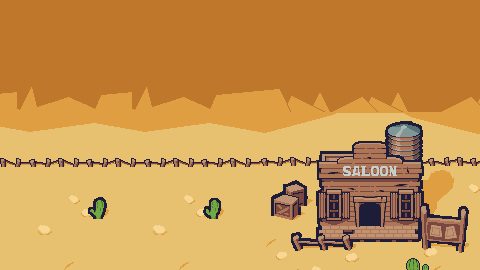
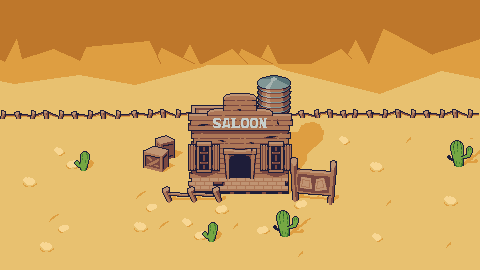
레터박스를 우클릭 연출로, 인게임은 꽉 찬 화면, 시작 화면은 선 얇은 원래 그림 (사용자 10-13)
- Letterbox.cs: 우클릭을 누르는 동안 위아래 남색 띠(최대 45칸, 도트 단위)가 용수철로 들어오고 HUD가 18%로 흐려짐. 떼면 돌아감. 띠는 배경 위·깡통 아래
- bg_range 480x270: 가운데 480x180 + 위는 벽을 옆으로 밀어 복사, 아래는 벽돌 줄(8줄 주기) 반복. 월드 좌표는 그대로
- 시작 화면: bg_saloon을 처음 받은 480x270 그림으로 되돌리고 띠·문·아지랑이·빛줄기·로고 자리도 원래대로

diff --git a/Assets/Scripts/Title.cs b/Assets/Scripts/Title.cs
@@ -15,14 +15,14 @@ namespace TinCan
     {
         const float Ppu = 27f;   // 480×270
         // 띠 경계 (원본 아래쪽부터 센 픽셀 행). 겹침 8줄: 세로 시차로 틈이 안 보이게
-        static readonly int[] cutLo = { 150, 0, 0 }, cutHi = { 270, 158, 12 };   // 뒤(하늘·산, 물탱크 위), 가운데(모래·울타리·술집), 앞(맨 아래 모래 12줄). 480×270 그림 (10-13 최종: 술집 오른쪽 아래)
+        static readonly int[] cutLo = { 196, 56, 0 }, cutHi = { 270, 204, 64 };   // 뒤, 가운데, 앞 (원래 480×270 술집 그림, 선 얇은 판 — 사용자 10-13 되돌림)
         static readonly float[] ampX = { 1f, 2f, 4f }, ampY = { 0f, 1f, 2f };     // 시차: 분석대로 절반 (마우스 끝까지 갔을 때 도트 수)
-        static readonly float[] shiftX = { 0f, 0f, 0f };                          // 320×180 그림은 술집이 이미 오른쪽에 있어 밀지 않는다
+        static readonly float[] shiftX = { 40f, 100f, 100f };                     // 술집을 오른쪽으로 — 왼쪽을 메뉴 자리로 비운다 (도트)
         readonly Transform[] layer = new Transform[3];
         readonly Vector2[] basePos = new Vector2[3];
         Vector2 look, lookV;
         Transform doorL, doorR;
-        static readonly Vector3 doorArt = new Vector3(130f / Ppu, -78f / Ppu, 0f);    // 입구 여닫이문 자리: 그림 가운데(240,135)에서 오른쪽 130, 아래 78 (문 가운데 = 그림 (370, 213))
+        static readonly Vector3 doorArt = new Vector3(0f, (135f - 165f) / Ppu, 0f);   // 입구 여닫이문 자리 (그림 x 229~251, 위에서 158~172행)
         bool frozen;
 
         // ---------- 메뉴: 글자 + ◀ (상자 없음) ----------
@@ -79,10 +79,10 @@ namespace TinCan
                 {
                     var m = new Material(hazeShader);
                     m.SetVector("_TexSize", new Vector4(tex.width, tex.height, 0f, 0f));
-                    m.SetVector("_Band", new Vector4(150f / tex.height, 180f / tex.height, 0f, 0f));   // 산 밑동 지평선 띠 (물탱크 위)
+                    m.SetVector("_Band", new Vector4(204f / tex.height, 236f / tex.height, 0f, 0f));   // 산 밑동 지평선 띠
                     m.SetFloat("_Amp", i == 2 ? 0f : 1.2f); m.SetFloat("_Rate", 6f);
                     m.SetFloat("_Desat", 0.6f);
-                    m.SetVector("_DesatBand", new Vector4(110f / tex.height, 210f / tex.height, 0f, 0f));   // 울타리 위부터 하늘 쪽으로 점점 회색
+                    m.SetVector("_DesatBand", new Vector4(150f / tex.height, 240f / tex.height, 0f, 0f));   // 울타리 위부터 하늘 쪽으로 점점 회색
                     m.SetColor("_Tint", new Color(0.84f, 0.9f, 0.97f));
                     sr.material = m;
                 }
@@ -390,10 +390,10 @@ namespace TinCan
         // 술집 = 그림 x 275~405도트(오른쪽 100 밀린 뒤), 아래에서 60~200행.
         // 위 끝 x(rayCx)는 사선(22°)을 거꾸로 따라 올라간 자리: 120행에서 각각 지붕 왼쪽·간판·물탱크 쪽에 닿는다
         // 줄기마다 기준점(rayHit: RayPivot행에서 닿는 x)을 축으로 각도가 다르다. 각도 = 22° + rayTilt ± 천천히 흔들림
-        static readonly float[] rayHit = { 330f, 375f, 430f }, rayTilt = { -6f, 1f, 6f }, rayWd = { 12f, 7f, 16f }, rayA = { 0.14f, 0.1f, 0.16f };   // 위 끝 폭. 술집 높이(120행)에선 약 2배
-        const float RayFoot = 0f, RayFull = 122f;   // 이 행(아래에서) 밑으로는 사라지고, RayFull 위로는 최대 밝기 — 술집 발밑까지만 내리쬔다
+        static readonly float[] rayHit = { 300f, 345f, 400f }, rayTilt = { -6f, 1f, 6f }, rayWd = { 12f, 7f, 16f }, rayA = { 0.14f, 0.1f, 0.16f };   // 위 끝 폭. 술집 높이(120행)에선 약 2배
+        const float RayFoot = 50f, RayFull = 170f;   // 이 행(아래에서) 밑으로는 사라지고, RayFull 위로는 최대 밝기 — 술집 발밑까지만 내리쬔다
         const float RayAngle = 22f, RaySway = 2.5f;  // 기준 각도, 시간에 따라 각 줄기가 ±이만큼 천천히 흔들림
-        const float RayPivot = 72f;                  // 이 행(술집 간판 높이)을 축으로 돌아서, 각도가 바뀌어도 술집은 계속 비춘다
+        const float RayPivot = 120f;                 // 이 행(술집 간판 높이)을 축으로 돌아서, 각도가 바뀌어도 술집은 계속 비춘다
         const float RaySpread = 2.2f;                 // 사다리꼴: 바닥에서 폭이 위 끝의 (1 + 이 값)배
 
         void BuildRays()

diff --git a/Assets/Scripts/Letterbox.cs b/Assets/Scripts/Letterbox.cs
@@ -1,0 +1,54 @@
+using UnityEngine;
+
+namespace TinCan
+{
+    /// <summary>
+    /// 우클릭 연출 (사용자 10-13): 우클릭을 누르고 있는 동안 위아래에서 남색 띠(레터박스)가 들어오고 UI가 흐려진다. 떼면 돌아간다.
+    /// 평소 화면엔 띠가 없다 (사용자: "기본이 이러니 어색하다, 레터박스는 우클릭 연출로").
+    /// 띠는 배경(-2) 위, 탄피(1)·깡통(2) 아래 → 깡통은 띠 위로도 보인다 (서부 영화 느낌).
+    /// 띠 두께는 도트 단위(최대 45칸 = 화면 1/6), 움직임은 용수철.
+    /// </summary>
+    public class Letterbox : MonoBehaviour
+    {
+        const float MaxDots = 45f, Ppu = 27f;
+        const float UiDim = 0.18f;          // 띠가 다 들어왔을 때 UI 투명도
+        SpriteRenderer top, bottom;
+        CanvasGroup ui;
+        float k, kv;                        // 0 = 없음 … 1 = 다 들어옴 (용수철)
+
+        public static Letterbox Make(Transform hudCanvas)
+        {
+            var lb = new GameObject("Letterbox").AddComponent<Letterbox>();
+            lb.top = Look.Quad("BarTop", Vector2.zero, Vector2.one, Look.Bar, 0, lb.transform);
+            lb.bottom = Look.Quad("BarBottom", Vector2.zero, Vector2.one, Look.Bar, 0, lb.transform);
+            lb.ui = hudCanvas.GetComponent<CanvasGroup>();
+            if (lb.ui == null) lb.ui = hudCanvas.gameObject.AddComponent<CanvasGroup>();
+            lb.Apply();
+            return lb;
+        }
+
+        void LateUpdate()
+        {
+            var g = Game.I;
+            var mouse = UnityEngine.InputSystem.Mouse.current;
+            bool on = g != null && g.State == GameState.Play && !g.MenuOpen && mouse != null && mouse.rightButton.isPressed;
+            // 들어올 땐 빠르게 살짝 넘쳤다 자리, 나갈 땐 조금 느긋하게
+            Ease.Spring(ref k, ref kv, on ? 1f : 0f, on ? 260f : 160f, on ? 16f : 18f, Time.unscaledDeltaTime);
+            Apply();
+        }
+
+        void Apply()
+        {
+            var cam = Camera.main; if (cam == null) return;
+            float halfH = cam.orthographicSize, w = halfH * 2f * cam.aspect + 2f;
+            float dots = Mathf.Round(Mathf.Clamp(k, 0f, 1.15f) * MaxDots);   // 두께는 도트 단위 (넘칠 땐 최대 52칸)
+            float h = dots / Ppu;
+            var c = cam.transform.position;
+            top.transform.position = new Vector3(c.x, c.y + halfH - h * 0.5f, 0f);
+            bottom.transform.position = new Vector3(c.x, c.y - halfH + h * 0.5f, 0f);
+            top.transform.localScale = bottom.transform.localScale = new Vector3(w, Mathf.Max(0.0001f, h), 1f);
+            top.enabled = bottom.enabled = dots > 0f;
+            if (ui != null) ui.alpha = Mathf.Lerp(1f, UiDim, Mathf.Clamp01(k));
+        }
+    }
+}

diff --git a/Assets/Scripts/Look.cs b/Assets/Scripts/Look.cs
@@ -37,12 +37,12 @@ namespace TinCan
         public static readonly Color TinDark = new Color(0.45f, 0.47f, 0.5f);
         public static readonly Color Label = new Color(0.85f, 0.25f, 0.2f);
 
-        // 사용자 10-13 최종: 화면 480×270(1도트 = 1080p 4px), 인게임은 위아래 띠(레터박스, 서부 영화 느낌).
-        // 인게임 그림 bg_range.png 480×180(320×180 그림 양옆을 거울로 80칸씩 늘린 것)을 화면 가운데 가로로 꽉. 위아래 45칸씩 남색 띠.
-        // 깡통과 UI는 띠 위까지 쓴다 (사용자: '통은 위로 날아가지만 구조물을 덜 그리면서 느낌을 낸다').
-        // 그림 좌표 → 월드: x = (열 - 240) / 27, y = (90 - 행) / 27.  선반 윗면 121행·x 182~287, 바닥선 147행
+        // 사용자 10-13 최종: 화면 480×270(1도트 = 1080p 4px). 인게임 그림 bg_range.png 480×270이 화면을 꽉 채운다
+        // (사용자 320×180 그림을 양옆 거울 80칸 + 위 벽 45칸 + 아래 벽돌 45칸으로 늘린 임시본).
+        // 위아래 띠(레터박스)는 평소엔 없고 우클릭 연출로만 (Letterbox.cs, 사용자: '기본이 이러니 어색하다').
+        // 아래 좌표는 가운데 480×180 부분 기준: x = (열 - 240) / 27, y = (90 - 행) / 27.  선반 윗면 121행·x 182~287, 바닥선 147행
         public const float PlayHalfW = 240f / 27f, PlayHalfH = 90f / 27f;   // 그림 반폭 8.89(= 화면 반폭), 반높이 3.33
-        public static readonly Color Bar = new Color(0.15f, 0.13f, 0.25f);   // 띠 색 = 도트 외곽선 남색
+        public static readonly Color Bar = new Color(0.15f, 0.13f, 0.25f);   // 우클릭 레터박스 띠 색 = 도트 외곽선 남색
         public const float ShelfY = -1.26f;     // 소환지역: 깡통이 올라가는 선반 (충돌 상자 가운데. 윗면 = +0.11 = 그림 121행 = -1.15)
         public const float DropY = -2.4f;       // 낙하지역: 여기 닿으면 정산 (바닥선 147행 = -2.11 아래 벽돌 속)
         public const float ShelfLeft = -2.15f, ShelfRight = 1.74f;  // 그림 속 선반 양 끝 (가운데에서 왼쪽으로 치우침)
@@ -55,7 +55,7 @@ namespace TinCan
         public static void BuildRange()
         {
             var bg = GunView.LoadArt("bg_range");
-            Camera.main.backgroundColor = bg != null ? Bar : Sky;   // 레터박스 띠 = 카메라 바탕 남색
+            Camera.main.backgroundColor = Sky;
             if (bg != null)
             {
                 var g = new GameObject("RangeArt");

diff --git a/Assets/Scripts/Game.cs b/Assets/Scripts/Game.cs
@@ -88,6 +88,7 @@ namespace TinCan
             hud = new GameObject("Hud").AddComponent<Hud>();
             hud.Bind(this);
             new GameObject("AmmoHud").AddComponent<AmmoHud>().Build(hud.Canvas, Gun);
+            Letterbox.Make(hud.Canvas);   // 우클릭 연출: 위아래 띠 + UI 흐리게 (사용자 10-13)
             tree = new GameObject("Tree").AddComponent<TreeView>();
             tree.Build(this, Nodes, hud.Canvas);
             tree.SetOpen(false);
@@ -120,9 +121,9 @@ namespace TinCan
             if (title == null) title = Title.Make(hud.Canvas);
             title.ClearButtons();
             // 로고 자리 = 오른쪽 위 (Shelldiver 분석 10-13). 「깡통」 글자는 가제, 손글씨 워드마크 그림이 오면 교체. 한 문장은 그 아래 작게
-            signTitle = Title.Label("SignTitle", hud.Canvas, new Vector2(-560f, 400f), new Vector2(900f, 200f), 144, TextAnchor.MiddleCenter);
+            signTitle = Title.Label("SignTitle", hud.Canvas, new Vector2(300f, 400f), new Vector2(900f, 200f), 144, TextAnchor.MiddleCenter);
             signTitle.text = "깡통";
-            tagline = Title.Label("Tagline", hud.Canvas, new Vector2(-560f, 290f), new Vector2(900f, 50f), 24, TextAnchor.MiddleCenter);
+            tagline = Title.Label("Tagline", hud.Canvas, new Vector2(300f, 290f), new Vector2(900f, 50f), 24, TextAnchor.MiddleCenter);
             tagline.text = "쏴서 띄우고, 떨어지기 전에 또 쏴라.";
             BuildMainMenu();
         }

diff --git a/Docs/Design.md b/Docs/Design.md
@@ -8,9 +8,9 @@
 ## 도트 규칙 (사용자 10-12: "픽셀 한 칸이 커야 하고, UI와 그림이 같은 도트 크기라 한 세계로 보여야")
 
 - **화면비 480×270 = 1도트가 1080p에서 4픽셀, PPU 27 (사용자 10-13 최종 "1번").** 같은 날 320×180(6px)도 해 봤으나, 같은 그림을 320×180 틀로 자르면 "억지로 확대한 느낌"이라 되돌림. "너무 작다"는 도트를 키우는 게 아니라 **물건을 더 많은 도트로 그려서** 푼다 (예: 깡통 세로 18~20도트).
-- **인게임 = 위아래 띠(레터박스, 서부 영화 느낌).** 인게임 그림 `bg_range.png` 480×180을 가운데 가로로 꽉, 위아래 45칸씩 남색 띠(`Look.Bar`). 깡통은 위 띠까지 날아가고, 돈 판자·버튼은 띠 위에 앉는다. 구조물을 덜 그려도 된다 (사용자 아이디어). 지금 480×180은 사용자 320×180 그림 양옆을 거울로 80칸씩 늘린 임시본 — 사용자가 직접 480×180으로 그리면 교체.
-- 시작 화면 `bg_saloon.png` = 사용자 480×270 (술집 오른쪽 아래, 예전 그림보다 오른쪽 130·아래 48).
-- 그림은 전부 PPU 27, Point, 압축 없음 (`Editor/PixelImport.cs`가 자동). 화면에 놓을 때 배율은 정수 칸만.
+- **인게임은 화면을 꽉 채운다.** `bg_range.png` 480×270 = 사용자 320×180 그림을 양옆 거울 80칸 + 위 벽 45칸 + 아래 벽돌 45칸으로 늘린 임시본. 사용자가 480×270으로 그리면 교체 (선반 = 받침대 위치가 바뀌면 `Look` 좌표도).
+- **레터박스는 우클릭 연출** (사용자 10-13: 평소에 띠가 있으니 어색하다). 우클릭을 누르는 동안 위아래 남색 띠(최대 45칸)가 용수철로 들어오고 UI가 흐려진다(18%). 띠는 배경 위·깡통 아래라 깡통은 띠 위로도 보인다. `Letterbox.cs`.
+- 시작 화면 `bg_saloon.png` = 처음 받은 480×270 술집 그림 (선 얇은 판. 10-13에 받은 굵은 선 판은 사용자가 되돌림).- 그림은 전부 PPU 27, Point, 압축 없음 (`Editor/PixelImport.cs`가 자동). 화면에 놓을 때 배율은 정수 칸만.
 - UI(UGUI)도 같은 칸: 테두리·못·간격 전부 `Ui.Px`(4)의 배수. 스킬트리·가게 `TreeView.Px` 4.
 - 글자: **도트 폰트** x10y12pxDenkiChipHangul (사용자 제공 10-12, `Assets/Resources/Fonts/DenkiChip.ttf`). 12px 격자라 `Ui.Snap`이 글자 크기를 12의 배수로 맞춘다 (12·24·36·48). 벡터 폰트는 폴백.
 - 설명 상자 그림: 사용자 `tip_panel.png` 262×117 (양옆 소용돌이), ×2로 그대로. 이름 볼드 / 점선 구분선 / 수치만 볼드·금빛 반짝 / 흰 글자.
